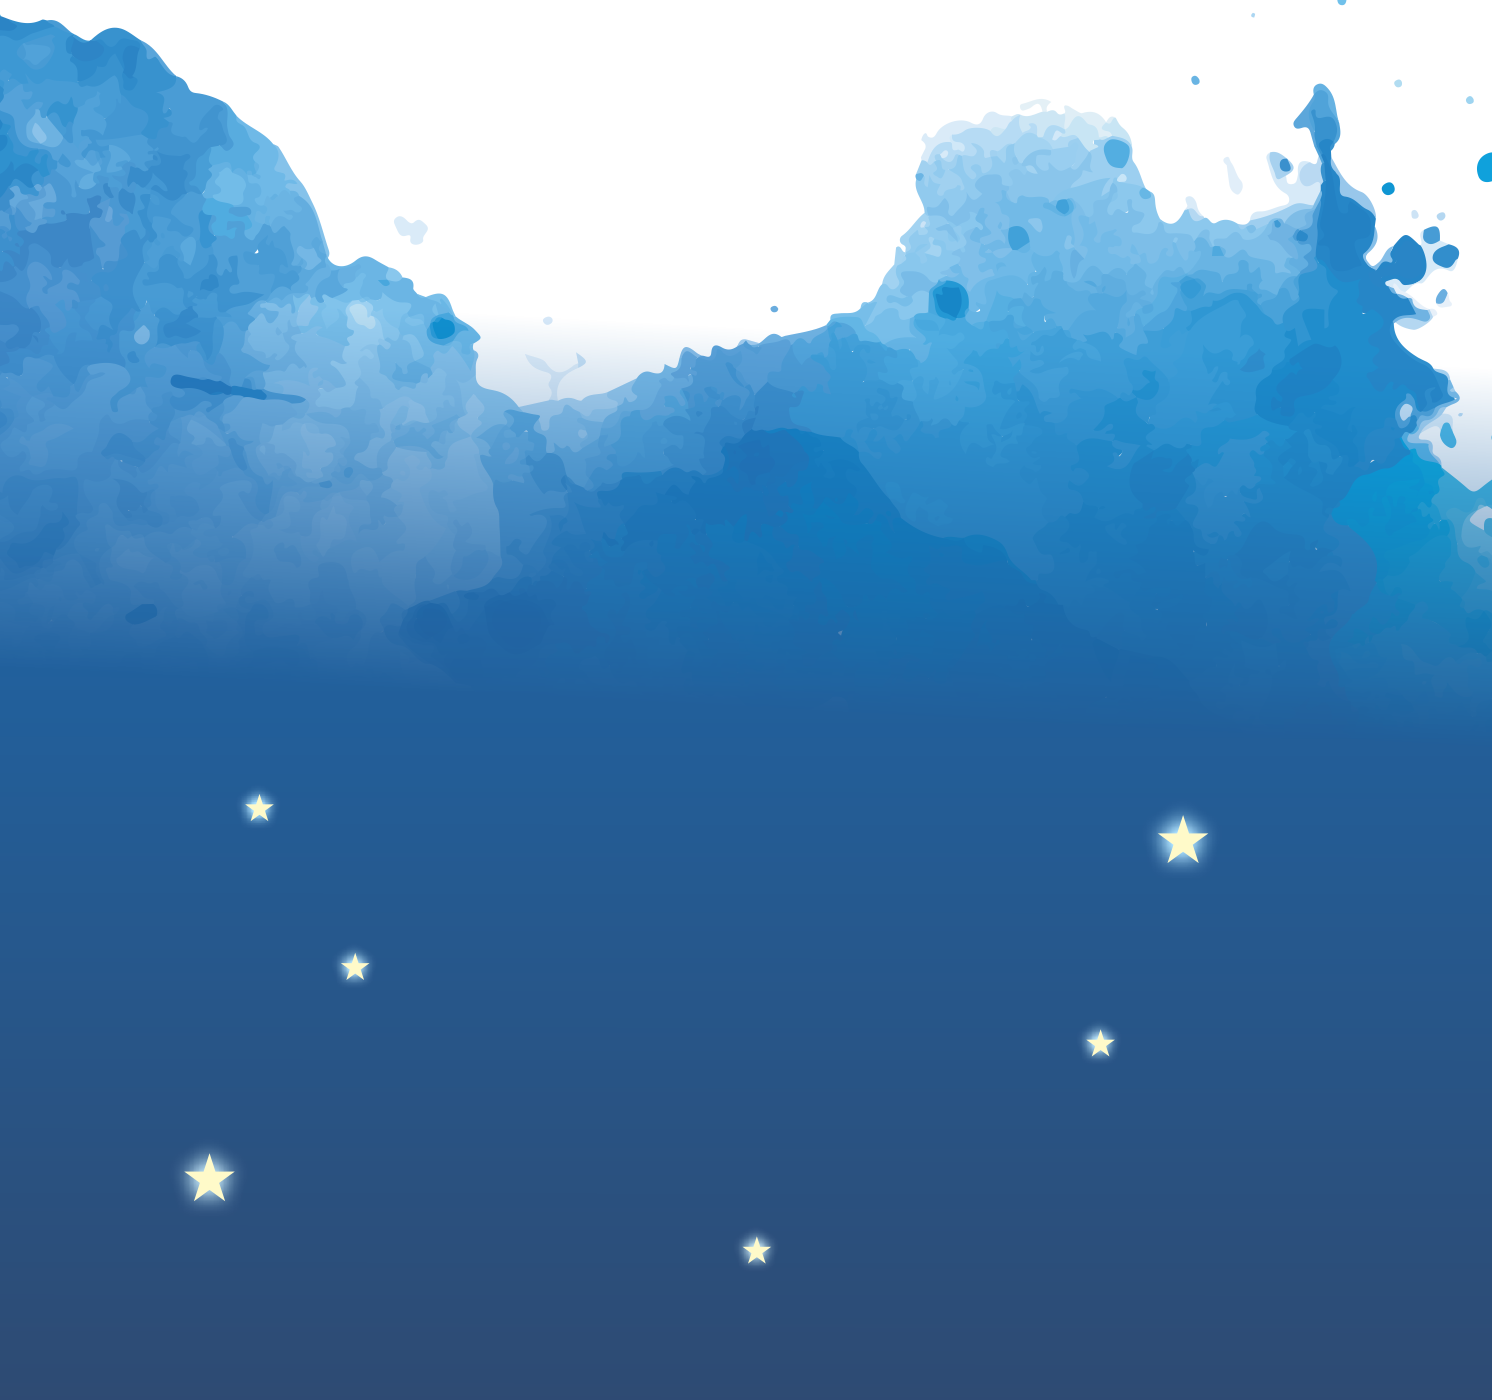
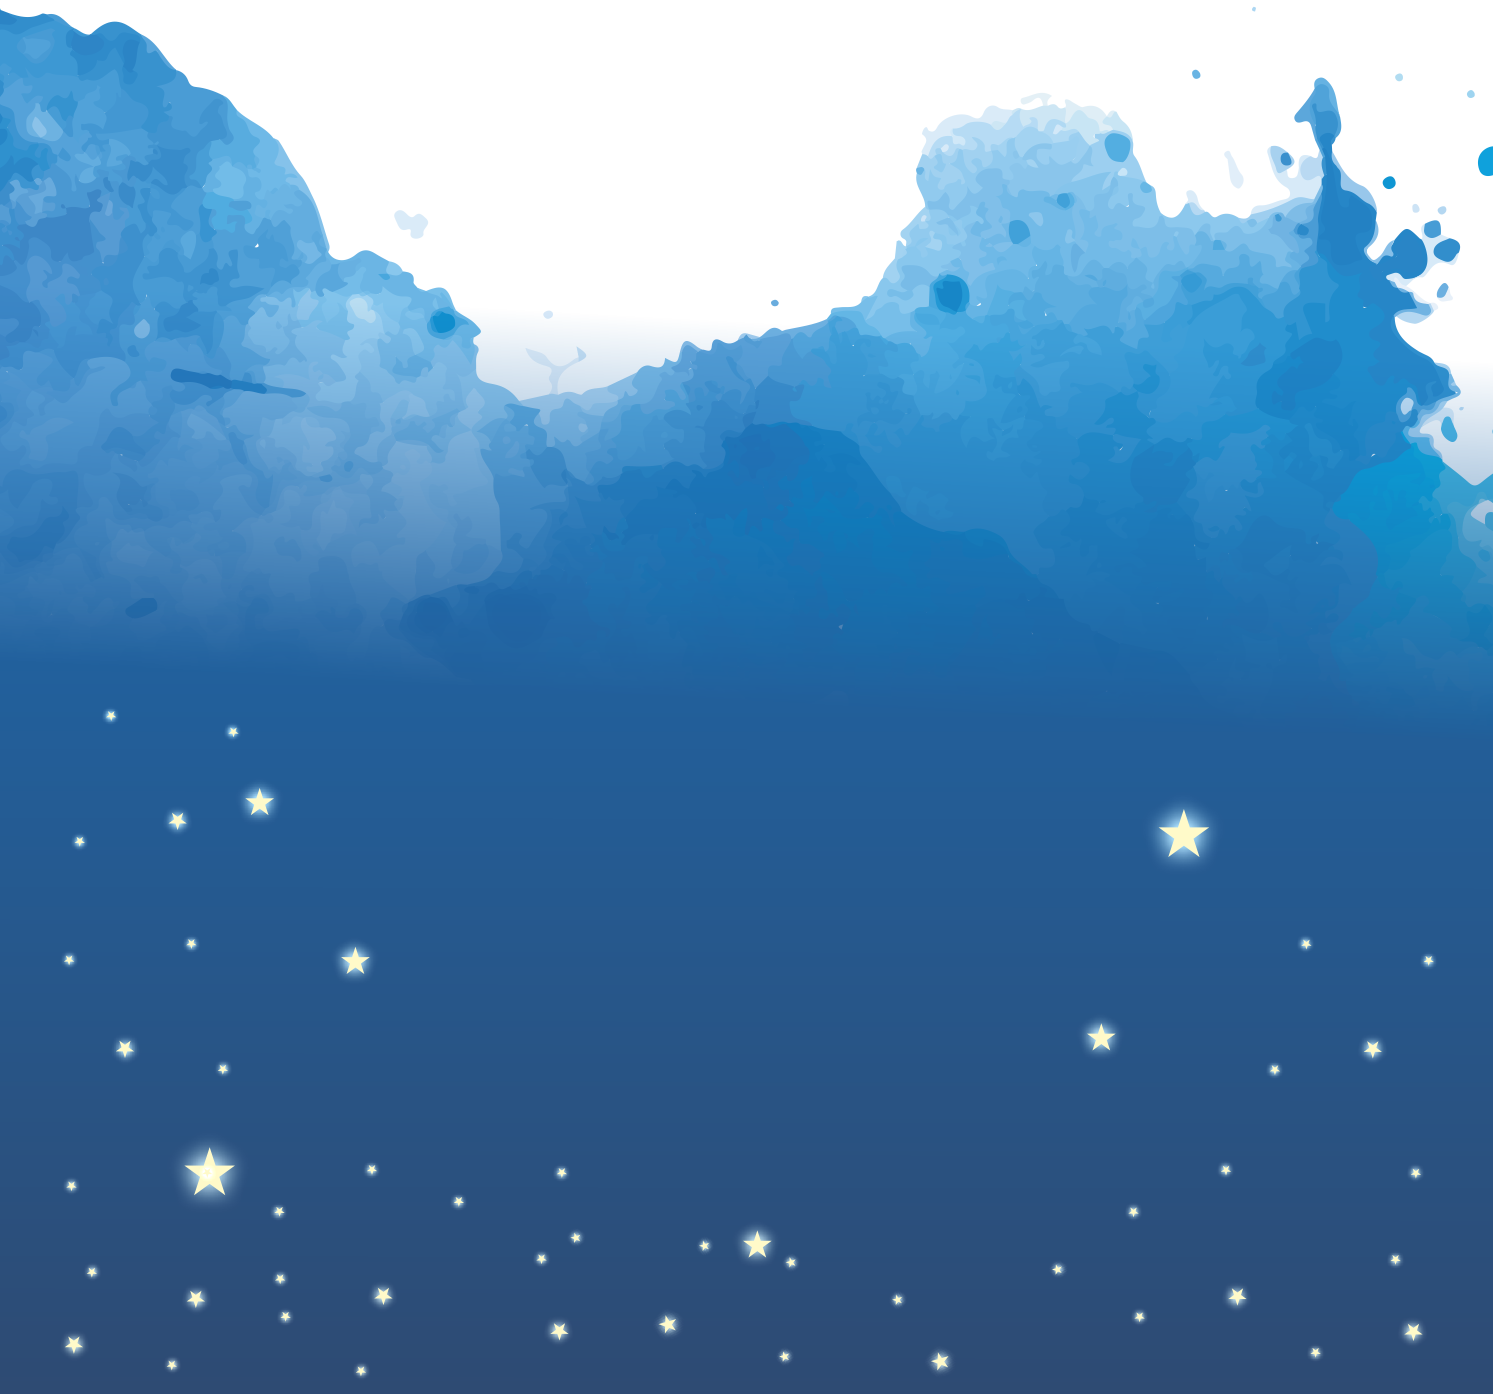
avence 95 %

diff --git a/index.html b/index.html
@@ -17,7 +17,7 @@
     <meta data-n-head="ssr" data-hid="description" name="description" 
         content=" Cumplir 15 años es el inicio de una etapa especial e inolvidable en mi vida
         y gracias a mis padres tengo la oportunidad de compartirlo junto a las personas
-        importantes para mi | Fecha 02 Mayo 2025 - 6pm">
+        importantes para mí | Fecha 02 Mayo 2025 - 6pm">
 </head>
 <body>
     <div class="container">
@@ -35,7 +35,7 @@
                     <span class="divider1"></span>
                     <h3 class="uppercase text-white ">Mis Quince años</h3>
                     <div class="slide__img-principal">
-                        <img class="efecto-resplandor" src="img/perfil_1.png" alt="">
+                        <img class="efecto-resplandor-quinceañera" src="img/perfil_1.png" alt="">
                     </div>
                     <div class="contentAudio">
                         <audio id="miAudio" class="miAudio" controls>
@@ -43,8 +43,6 @@
                             Tu navegador no soporta audio HTML5.
                           </audio>
                     </div>
-                    <br>
-                    <br>
                     <br>
                     <p class="frase1">
                         Cumplir 15 años es el inicio de una etapa especial e inolvidable en mi vida
@@ -60,7 +58,7 @@
 
                      <p class="frase1">
                         tengo la oportunidad de compartirlo junto a las personas
-                        importantes para mi.
+                        importantes para mí.
                     </p>
                    
                     <br>
@@ -77,7 +75,7 @@
             </div>
             <div class="item-row">
                 <br>
-                <img class="efecto-resplandor" src="img/fecha-hora.svg" width="70%" alt="">
+                <img src="img/fecha-hora.svg" width="70%" alt="">
             </div>
 
             
@@ -136,7 +134,7 @@
                     <br />
                     <p>
                         El mejor regalo que me puedes dar es tu presencia, 
-                        pero si algo me quieres obsequiar en efectivo lo sabre apreciar. 
+                        pero si algo me quieres obsequiar en efectivo lo sabré apreciar. 
                     </p>
                     <br/>
                     <p>
@@ -156,7 +154,11 @@
             <div class="item-row">
                 <div class="body-regalos__item-1 text-center">
                     <h4>¿Qué Canción no puede <br> faltar en mis 15?</h4>
-                    <button class="btn-cancion" onclick="abrirPopup()">Ingresar Canción</button>
+                    <!-- <button class="btn-cancion" onclick="abrirPopup()">Ingresar Canción</button> -->
+                    <a class="btn-cancion" href="https://api.whatsapp.com/send?phone=51961216631&text=Hola Eydrian, la cancion que quiero es  " target="_blank">
+                        Ingresar Canción
+                        <!-- +51 961216631 -->
+                    </a>
                 </div>
             </div>
         </div>
@@ -194,7 +196,7 @@
                             <div>Ellas</div>
                         </div>
                         <div class="d-block">
-                            <svg class="icon-regalo" xmlns="http://www.w3.org/2000/svg" xml:space="preserve" width="43.802mm" height="47.1mm" version="1.1" style="shape-rendering:geometricPrecision; text-rendering:geometricPrecision; image-rendering:optimizeQuality; fill-rule:evenodd; clip-rule:evenodd"
+                            <svg class="codigoVestimenta" xmlns="http://www.w3.org/2000/svg" xml:space="preserve" width="43.802mm" height="47.1mm" version="1.1" style="shape-rendering:geometricPrecision; text-rendering:geometricPrecision; image-rendering:optimizeQuality; fill-rule:evenodd; clip-rule:evenodd"
                             viewBox="0 0 4380.2 4710" xmlns:xlink="http://www.w3.org/1999/xlink" xmlns:xodm="http://www.corel.com/coreldraw/odm/2003">
                             <g id="Capa_x0020_1">
                             <metadata id="CorelCorpID_0Corel-Layer"/>
@@ -241,10 +243,10 @@
             </div>
         </div>
         <div class="slide bg-end pb-5"> <!--  icon-luna - te eperamos -->
-            <img src="img/luna.svg" class="img-luna pt-5" alt="luna" width="15%">
+            <img src="img/luna.svg" class="img-luna efecto-resplandor pt-5" alt="luna" width="15%">
             <div class="pb-5">
                 <h2>
-                    <i>Te espero!!!</i>
+                    <i class="teEspero">Te   espero!!!</i>
                 </h2><br>
             </div>
         </div>

diff --git a/css/style.css b/css/style.css
@@ -44,7 +44,7 @@
     /* --text-color-general:#01777e; */
     /* --text-color-general:#80BFFF; */
     --text-color-general:#134475;
-    
+    --resplandor-claro:#f3fcc3;
     
     --main-bg-color-white:#fff;
     --text-color-fondo-oscuro:#fff;
@@ -120,7 +120,13 @@ body{
 }
 .font-Silenter{
     font-family: "Silenter", sans-serif;
-    text-transform:capitalize; 
+    text-transform:none; 
+}
+.teEspero{
+  font-family: "Silenter", sans-serif;
+  font-size: 3em;
+  text-transform:none; 
+  font-weight: normal;
 }
 .divider1{
     border-top: 2px solid #ffffff76;
@@ -145,8 +151,10 @@ body{
     color: var(--text-color-general);
 }
 .icon-regalo, .codigoVestimenta {
-    width: 35px;
-    height: auto;
+    /* width: 35px;
+    height: auto; */
+    height: 3em;
+    width: auto;
 }
 .icon-regalo .fil0, .codigoVestimenta .fil0{
     fill: var(--text-color-general);
@@ -157,7 +165,7 @@ body{
 }
 .btn-cancion{
     padding: 0.5em;
-    color: #fff;
+    color: #ffffff!important;
     background-color: var(--text-color-general);
     border-color: var(--text-color-general);
     border-radius: 3em;
@@ -385,11 +393,11 @@ p{
   }
 
   audio {
-    width: 70%;
+    /* width: 30%; */
     outline: none;
     border-radius: 10px;
-    position: absolute;
-    left:15%;
+    /* position: absolute; */
+    /* left:30%; */
   }
 
   /* Estilo visual para los controles del audio (solo navegadores WebKit como Chrome/Safari) */
@@ -412,23 +420,38 @@ p{
   }
 
 .img-luna{
-    filter: drop-shadow(0 0 5px var(--text-color-general))
-    drop-shadow(0 0 15px var(--text-color-general))
-    drop-shadow(0 0 25px var(--text-color-general));
+    filter: drop-shadow(0 0 5px #eaff70)
+    drop-shadow(0 0 15px #eaff70)
+    drop-shadow(0 0 25px #eaff70);
 }
 .efecto-resplandor{
-    filter: drop-shadow(0 0 5px var(--text-color-general))
-    drop-shadow(0 0 15px var(--text-color-general))
-    drop-shadow(0 0 25px var(--text-color-general));
-    animation: pulso 2s infinite;
+    filter: drop-shadow(0 0 5px var(--resplandor-claro))
+    drop-shadow(0 0 15px var(--resplandor-claro))
+    drop-shadow(0 0 25px var(--resplandor-claro));
+    animation: pulsoClaro 5s infinite;
+}
+@keyframes pulsoOscuro {
+  0%, 100% {
+    filter: drop-shadow(0 0 5px var(--text-color-general));
+  }
+  50% {
+    filter: drop-shadow(0 0 20px var(--text-color-general));
+  }
 }
 
-@keyframes pulso {
+.efecto-resplandor-quinceañera{
+  filter: drop-shadow(0 0 5px var(--text-color-general))
+  drop-shadow(0 0 15px var(--text-color-general))
+  drop-shadow(0 0 25px var(--text-color-general));
+  animation: pulsoOscuro 2s infinite;
+}
+
+@keyframes pulsoClaro {
     0%, 100% {
-      filter: drop-shadow(0 0 5px var(--text-color-general));
+      filter: drop-shadow(0 0 5px var(--resplandor-claro));
     }
     50% {
-      filter: drop-shadow(0 0 20px var(--text-color-general));
+      filter: drop-shadow(0 0 20px var(--resplandor-claro));
     }
   }
   
@@ -529,14 +552,17 @@ p{
 }
 
 /* ---------------------- CUANDO ES MOVIL ---------------------- */
-
-@media (min-height< 681px) {
-    body{
+@media screen and (max-width: 480px) { 
+    /* body{
         background-color: var(--main-bg-color);
         text-align: center;
-        /* margin-top: 10%;
-        margin-bottom: 10%;
-        padding:10%; */
-    }
+    } */
+    /* audio {
+      width: 80%;
+      outline: none;
+      border-radius: 10px;
+      position: absolute;
+      left:15%;
+    } */
 }
 
